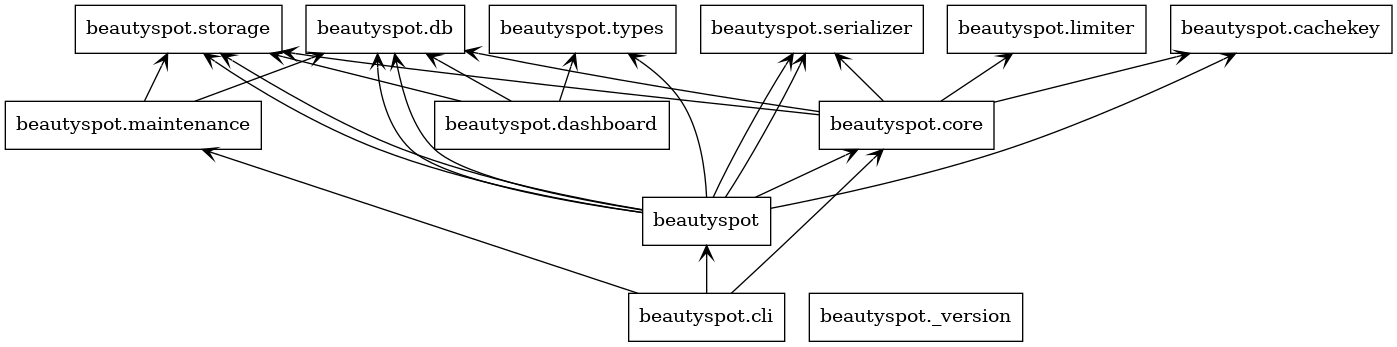
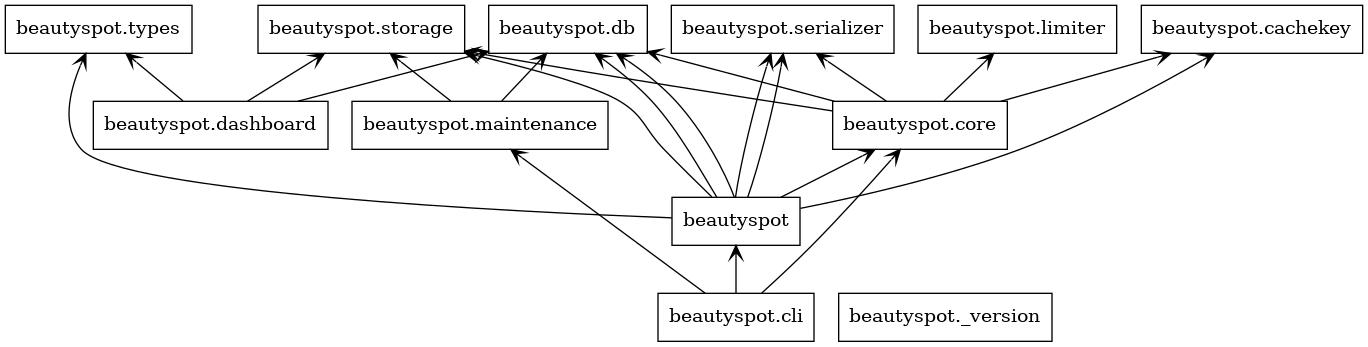
save

diff --git a/src/beautyspot/__init__.py b/src/beautyspot/__init__.py
@@ -1,15 +1,17 @@
 # src/beautyspot/__init__.py 
 from importlib.metadata import version, PackageNotFoundError
-from .core import Spot as _Spot, SpotOptions
-from .cachekey import KeyGen
-from .storage import LocalStorage, S3Storage
-from .serializer import SerializationError
-from .types import ContentType
+from beautyspot.core import Spot as _Spot, SpotOptions
+from beautyspot.cachekey import KeyGen
+from beautyspot.db import SQLiteTaskDB
+from beautyspot.storage import LocalStorage
+from beautyspot.serializer import MsgpackSerializer, SerializationError
+from beautyspot.types import ContentType
 
 from typing import Optional, Any
-from .db import TaskDB
-from .storage import BlobStorageBase
-from .serializer import SerializerProtocol
+from beautyspot.db import TaskDB
+from beautyspot.storage import BlobStorageBase
+from beautyspot.serializer import SerializerProtocol
+
 
 try:
     __version__ = version("beautyspot")
@@ -19,71 +21,65 @@ except PackageNotFoundError:
 
 
 # ユーザーが使う "Spot" を定義
-class Spot(_Spot):
+def Spot(
+    name: str,
+    db: Optional[TaskDB] = None,
+    serializer: Optional[SerializerProtocol] = None,
+    storage: Optional[BlobStorageBase] = None,
+    tpm: int = 10000,
+    io_workers: int = 4,
+    blob_warning_threshold: int = 1024 * 1024,
+    executor: Optional[Any] = None,
+    default_save_blob: bool = False,
+    default_version: Optional[str] = None,
+    default_content_type: Optional[str] = None,
+    **kwargs: Any
+) -> _Spot:
     """
     Beautyspotのメインエントリポイント。
     """
-    def __init__(
-        self,
-        name: str,
-        # --- 1. 依存オブジェクト (Explicit) ---
-        db: Optional[TaskDB] = None,
-        serializer: Optional[SerializerProtocol] = None,
-        storage: Optional[BlobStorageBase] = None,
-        
-        # --- 2. オプション設定 (Explicit for help()) ---
-        tpm: int = 10000,
-        io_workers: int = 4,
-        blob_warning_threshold: int = 1024 * 1024,
-        executor: Optional[Any] = None,
-        default_save_blob: bool = False,
-        default_version: Optional[str] = None,
-        default_content_type: Optional[str] = None,
-        **kwargs: Any
-    ) -> None:
-        
-        # --- Orchestration: デフォルト実装の注入 ---
-        
-        # 1. DBの解決
-        from beautyspot.db import SQLiteTaskDB
-        resolved_db = db or SQLiteTaskDB(f".beautyspot/{name}.db")
+    # --- Orchestration: デフォルト実装の注入 ---
+    
+    # 1. DBの解決
+    from beautyspot.db import SQLiteTaskDB
+    resolved_db = db or SQLiteTaskDB(f".beautyspot/{name}.db")
 
-        # 2. Serializerの解決
-        from beautyspot.serializer import MsgpackSerializer
-        resolved_ser = serializer or MsgpackSerializer()
+    # 2. Serializerの解決
+    from beautyspot.serializer import MsgpackSerializer
+    resolved_ser = serializer or MsgpackSerializer()
 
-        # 3. Storageの解決
-        from beautyspot.storage import LocalStorage
-        resolved_stg = storage or LocalStorage(".beautyspot/blobs")
+    # 3. Storageの解決
+    from beautyspot.storage import LocalStorage
+    resolved_stg = storage or LocalStorage(".beautyspot/blobs")
 
-        # --- オプションのパッキングと型チェック ---
-        # types.py の SpotOptions を使って、引数の整合性を（静的解析上で）担保する
-        options: SpotOptions = {
-            "tpm": tpm,
-            "io_workers": io_workers,
-            "blob_warning_threshold": blob_warning_threshold,
-            "executor": executor,
-            "default_save_blob": default_save_blob,
-            "default_version": default_version,
-            "default_content_type": default_content_type,
-            **kwargs, # type: ignore
-        }
+    # --- オプションのパッキングと型チェック ---
+    # types.py の SpotOptions を使って、引数の整合性を（静的解析上で）担保する
+    options: SpotOptions = {
+        "tpm": tpm,
+        "io_workers": io_workers,
+        "blob_warning_threshold": blob_warning_threshold,
+        "executor": executor,
+        "default_save_blob": default_save_blob,
+        "default_version": default_version,
+        "default_content_type": default_content_type,
+        **kwargs, # type: ignore
+    }
 
-        # --- コアロジックの起動 ---
-        # explicitな引数として core に渡す
-        super().__init__(
-            name=name,
-            db=resolved_db,
-            serializer=resolved_ser,
-            storage=resolved_stg,
-            **options,
-        )
+    # explicitな引数として core に渡す
+    return _Spot(
+        name=name,
+        db=resolved_db,
+        serializer=resolved_ser,
+        storage=resolved_stg,
+        **options,
+    )
 
 __all__ = [
     "Spot",
     "KeyGen",
+    "SQLiteTaskDB",
     "LocalStorage",
-    "S3Storage",
+    "MsgpackSerializer",
     "ContentType",
     "SerializationError",
 ]

diff --git a/tools/analyze_design.py b/tools/analyze_design.py
@@ -1,0 +1,91 @@
+# tools/analyze_design.py
+import ast
+from pathlib import Path
+
+class DesignAnalyzer(ast.NodeVisitor):
+    def __init__(self):
+        self.current_class = None
+        self.protocols = {}  # {Name: {methods}}
+        self.classes = {}    # {Name: {methods}}
+        self.relationships = [] # list of (Subject, Object, Type)
+
+    def visit_ClassDef(self, node):
+        methods = {n.name for n in node.body if isinstance(n, ast.FunctionDef)}
+        
+        # Protocolかどうかの判定
+        is_protocol = any(
+            (isinstance(b, ast.Name) and b.id == "Protocol") or
+            (isinstance(b, ast.Attribute) and b.attr == "Protocol")
+            for b in node.bases
+        )
+        
+        if is_protocol:
+            self.protocols[node.name] = methods - {"__init__", "..."}
+        else:
+            self.classes[node.name] = methods
+
+        # クラスコンテキストでの内部走査
+        prev_class = self.current_class
+        self.current_class = node.name
+        self.generic_visit(node)
+        self.current_class = prev_class
+
+    def visit_Call(self, node):
+        if not self.current_class:
+            return
+
+        # 1. 生成関係 (Creates): ClassName(...)
+        if isinstance(node.func, ast.Name):
+            target = node.func.id
+            if target[0].isupper() and target != self.current_class:
+                self.relationships.append((self.current_class, target, "creates"))
+
+        # 2. 静的利用・バインド (Uses/Binds): Class.method()
+        elif isinstance(node.func, ast.Attribute):
+            if isinstance(node.func.value, ast.Name):
+                target_class = node.func.value.id
+                if target_class[0].isupper():
+                    rel_type = "binds" if node.func.attr == "bind" else "uses"
+                    self.relationships.append((self.current_class, f"{target_class}.{node.func.attr}", rel_type))
+
+        self.generic_visit(node)
+
+def analyze_design(src_dir="src/beautyspot"):
+    src_path = Path(src_dir)
+    analyzer = DesignAnalyzer()
+
+    # 全ファイルを走査
+    for path in src_path.glob("*.py"):
+        with open(path, "r", encoding="utf-8") as f:
+            tree = ast.parse(f.read())
+            analyzer.visit(tree)
+
+    # 3. 暗黙的準拠の判定 (Implements)
+    for class_name, class_methods in analyzer.classes.items():
+        for proto_name, proto_methods in analyzer.protocols.items():
+            if proto_methods and proto_methods.issubset(class_methods):
+                analyzer.relationships.append((class_name, proto_name, "implements"))
+
+    # Mermaid出力
+    lines = ["graph LR"]
+    # スタイル定義
+    lines.append("    classDef protocol fill:#f9f,stroke:#333,stroke-width:2px;")
+    
+    for proto in analyzer.protocols:
+        lines.append(f"    class {proto} protocol;")
+
+    for sub, obj, rel in sorted(list(set(analyzer.relationships))):
+        if rel == "implements":
+            lines.append(f"    {sub} -. \"implements\" .-> {obj}")
+        elif rel == "creates":
+            lines.append(f"    {sub} -- \"creates\" --> {obj}")
+        elif rel == "binds":
+            lines.append(f"    {sub} ==> \"binds\" ==> {obj}")
+        elif rel == "uses":
+            lines.append(f"    {sub} -. \"uses\" .-> {obj}")
+            
+    return "\n".join(lines)
+
+if __name__ == "__main__":
+    print(analyze_design())
+

diff --git a/tools/generate_report.py b/tools/generate_report.py
@@ -97,10 +97,25 @@ def generate_report():
         ""
     ])
 
+    # --- デザイン・インテント分析 ---
+    print("Analyzing Design Intents...")
+    design_mermaid = run_command(["uv", "run", "python", "tools/analyze_design.py"])
+    
+    report.extend([
+        "## 4. デザイン・インテント分析 (Design Intent Map)",
+        "クラス図には現れない、生成関係、静的利用、および Protocol への暗黙的な準拠を可視化します。",
+        "",
+        "```mermaid",
+        design_mermaid,
+        "```",
+        ""
+    ])
+
     with open(REPORT_FILE, "w", encoding="utf-8") as f:
         f.write("\n".join(report))
     
     print(f"✅ レポートを生成しました: {REPORT_FILE}")
+
 
 if __name__ == "__main__":
     generate_report()

diff --git a/docs/quality_report.md b/docs/quality_report.md
@@ -1,5 +1,5 @@
 # 📊 Beautyspot Quality Report
-**最終更新:** 2026-02-16 20:51:29
+**最終更新:** 2026-02-16 21:42:20
 
 ## 1. アーキテクチャ可視化
 ### 1.1 依存関係図 (Pydeps)
@@ -75,9 +75,6 @@ src/beautyspot/serializer.py
     M 33:4 MsgpackSerializer.__init__ - A
 src/beautyspot/types.py
     C 3:0 ContentType - A
-src/beautyspot/__init__.py
-    C 22:0 Spot - A
-    M 26:4 Spot.__init__ - A
 src/beautyspot/cachekey.py
     F 27:0 canonicalize - C
     F 92:0 _ - B
@@ -199,9 +196,11 @@ src/beautyspot/cli.py
     F 48:0 _is_port_in_use - A
     F 71:0 _format_timestamp - A
     F 652:0 main - A
+src/beautyspot/__init__.py
+    F 24:0 Spot - A
 
-137 blocks (classes, functions, methods) analyzed.
-Average complexity: A (2.708029197080292)
+136 blocks (classes, functions, methods) analyzed.
+Average complexity: A (2.6911764705882355)
 ```
 </details>
 
@@ -222,12 +221,48 @@ src/beautyspot/dashboard.py - A
 src/beautyspot/limiter.py - A
 src/beautyspot/serializer.py - A
 src/beautyspot/types.py - A
-src/beautyspot/__init__.py - A
 src/beautyspot/cachekey.py - A
 src/beautyspot/storage.py - A
 src/beautyspot/db.py - A
 src/beautyspot/core.py - A
 src/beautyspot/maintenance.py - A
 src/beautyspot/cli.py - A
+src/beautyspot/__init__.py - A
 ```
 </details>
+
+## 4. デザイン・インテント分析 (Design Intent Map)
+クラス図には現れない、生成関係、静的利用、および Protocol への暗黙的な準拠を可視化します。
+
+```mermaid
+graph LR
+    classDef protocol fill:#f9f,stroke:#333,stroke-width:2px;
+    class SerializerProtocol protocol;
+    KeyGen -- "creates" --> KeyGenPolicy
+    KeyGen -- "creates" --> ValueError
+    KeyGenPolicy -. "uses" .-> KeyGen.from_file_content
+    KeyGenPolicy -. "uses" .-> KeyGen.from_path_stat
+    KeyGenPolicy -. "uses" .-> KeyGen.hash_items
+    LocalStorage -- "creates" --> FileNotFoundError
+    LocalStorage -- "creates" --> Path
+    LocalStorage -- "creates" --> ValueError
+    MsgpackSerializer -- "creates" --> SerializationError
+    MsgpackSerializer -. "implements" .-> SerializerProtocol
+    MsgpackSerializer -- "creates" --> ValueError
+    S3Storage -- "creates" --> FileNotFoundError
+    S3Storage -- "creates" --> ImportError
+    SQLiteTaskDB -- "creates" --> ImportError
+    SQLiteTaskDB -- "creates" --> Path
+    ScopedMark -- "creates" --> RuntimeError
+    Spot -. "uses" .-> KeyGen._default
+    Spot -- "creates" --> MsgpackSerializer
+    Spot -- "creates" --> NotImplementedError
+    Spot -- "creates" --> Path
+    Spot -- "creates" --> SQLiteTaskDB
+    Spot -- "creates" --> ScopedMark
+    Spot -- "creates" --> ThreadPoolExecutor
+    Spot -- "creates" --> TokenBucket
+    Spot -- "creates" --> TypeError
+    Spot -- "creates" --> ValueError
+    TokenBucket -- "creates" --> ValueError
+```

diff --git a/docs/reference/architecture.md b/docs/reference/architecture.md
@@ -69,7 +69,7 @@ v2.0 以降も互換性維持のため、内部テーブル名は `tasks` のま
 
 主要クラスの依存関係と責務の構造です。`Spot` クラスが `Facade` として機能し、各コンポーネントを統括しています。
 
-![Class Diagram](statics/img/generated/classes_beautyspot.png)
+![Class Diagram](../statics/img/generated/classes_beautyspot.png)
 
 ---
 
